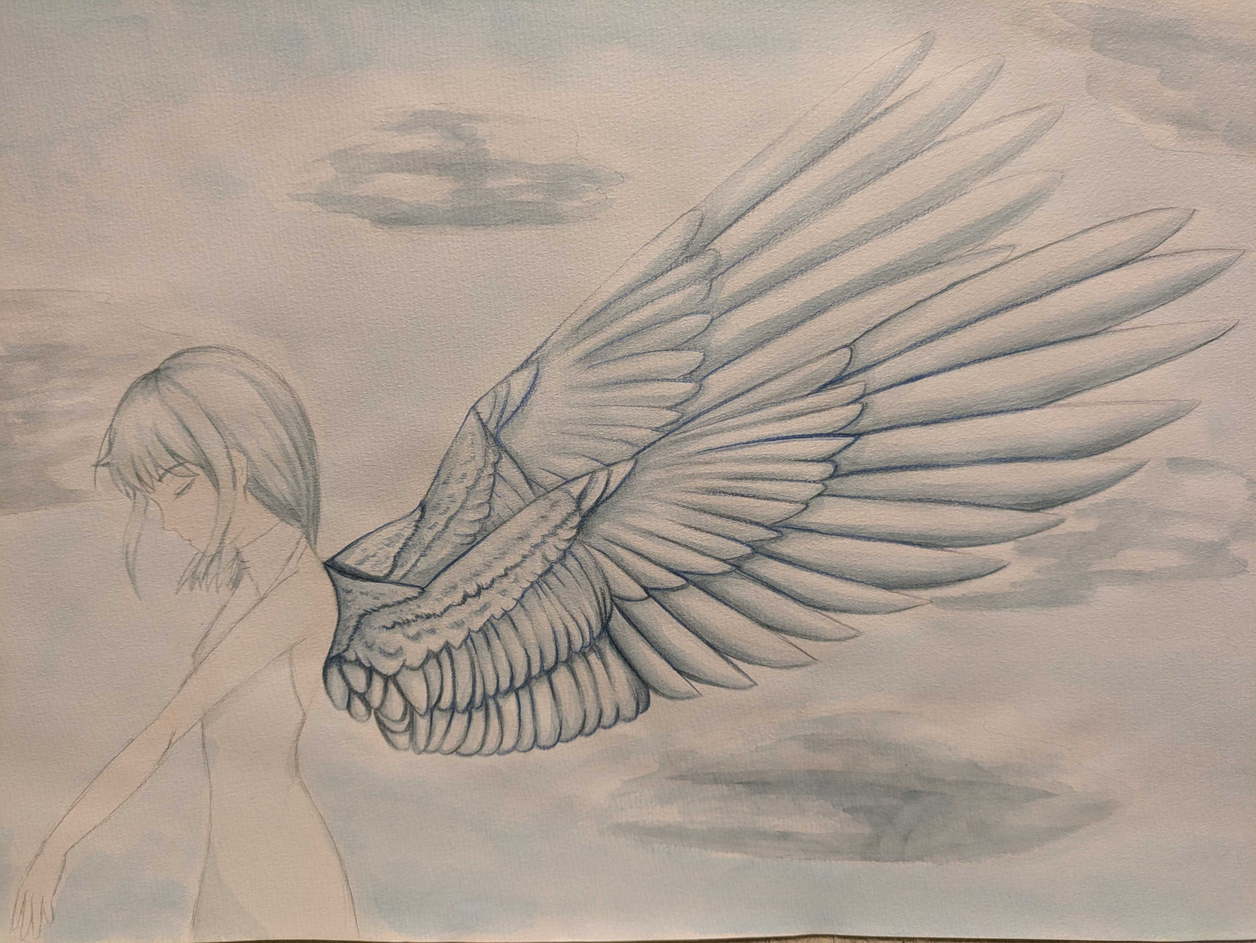
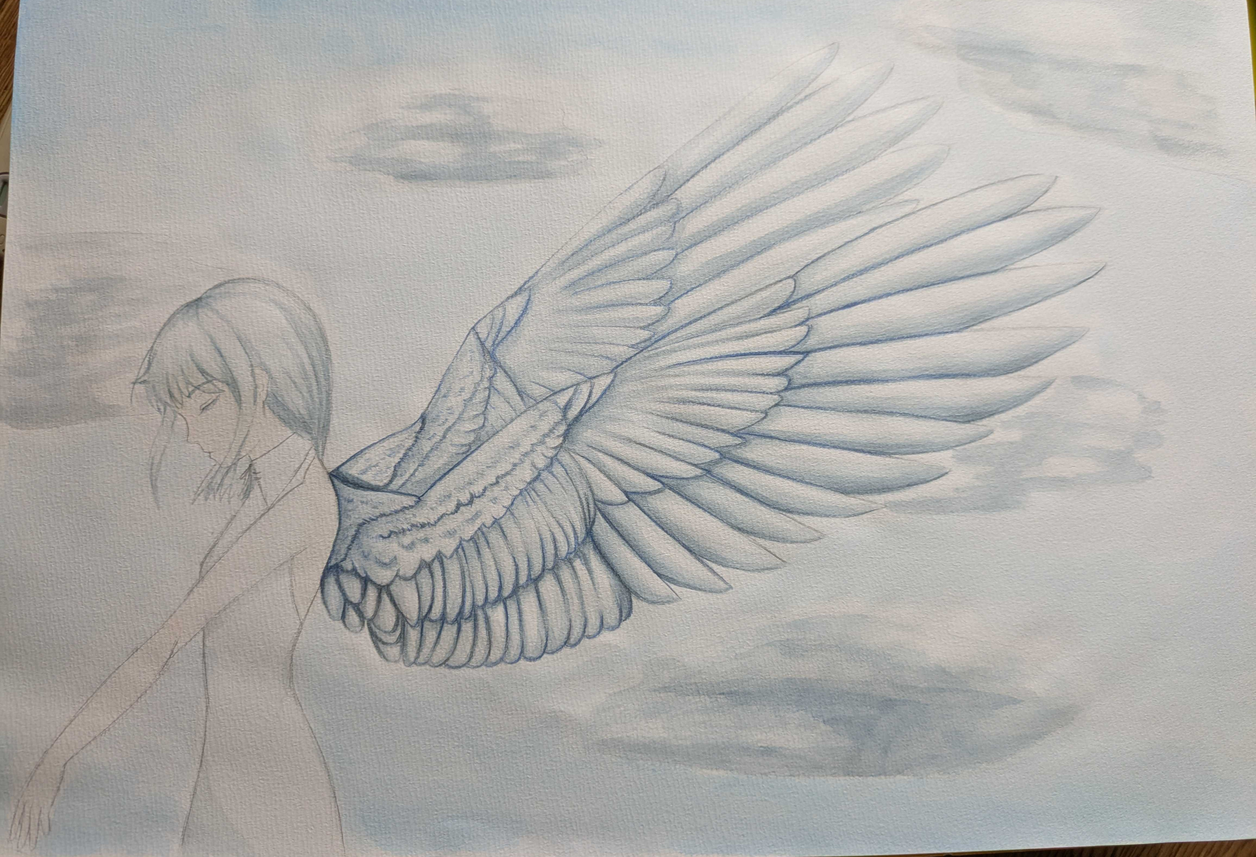
img add

diff --git a/profile.html b/profile.html
@@ -96,11 +96,11 @@
                     <p>水彩と色鉛筆を使って描きました。</p>
                 </div>
                 <div class="illustration_1">
-                    <div class="float-left img zoom"><img src="img/illustration/puppet.jpg" alt=""></div>
+                    <div class="float-left img zoom"><img src="img/illustration/puppet.png" alt=""></div>
                     <h3>人形</h3>
                     <p class="indent">銀髪のキャラを描きたくて昔考えたキャラクターを元に描きました。</p>
-                    <p class="indent">画像では分からないですが、ラメが入っている銀色の水彩絵の具を使って描きました。他にも髪の色に薄く青や紫、黄色を入れました。</p>
-                    <p>水彩と色鉛筆を使って描きました。</p>
+                    <p class="indent">アナログで描いたものをデジタルで描きなおしました。</p>
+                    <!-- <p></p> -->
                 </div>
             </div>
         </div>
